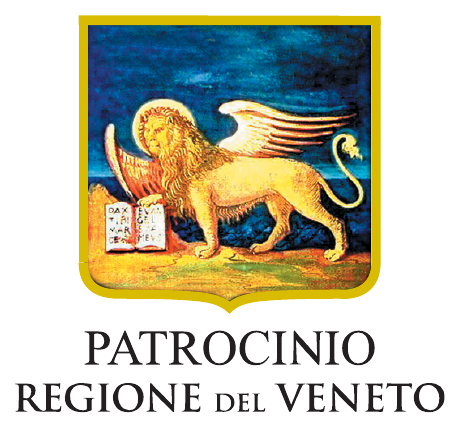
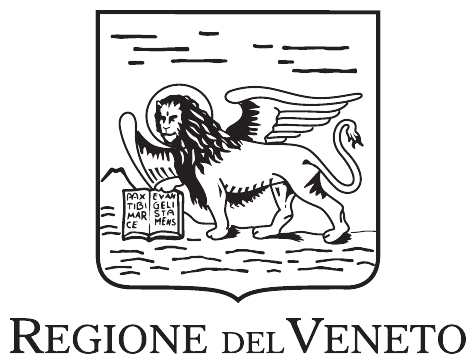
replace Regione Veneto crest with the official black monochrome mark
Regione del Veneto flagged (concessione patrocinio 45539/2026) that the
crest was shown with altered coloring — the grayscale-then-color-on-hover
treatment isn't appropriate for an official mark that must be used
exactly as supplied. Swapped in their official marchio_comp_nero file
and excluded it from the hover/color filter via a fixedMono flag, while
the other logos keep the grayscale-on-hover treatment.

diff --git a/src/components/Patrocini.vue b/src/components/Patrocini.vue
@@ -5,6 +5,9 @@ const patrociniIstituzionali = [
     nome: 'Regione del Veneto',
     logo: '/patrocini/regione-veneto.png',
     link: 'https://www.regione.veneto.it',
+    // Official monochrome mark (protocollo di concessione patrocinio 45539/2026) —
+    // must be used exactly as supplied, not recolored on hover like the others.
+    fixedMono: true,
   },
   {
     nome: 'Comune di Valdobbiadene',
@@ -40,7 +43,8 @@ const partnership = []
           <a v-for="p in patrociniIstituzionali" :key="p.nome"
             :href="p.link" target="_blank" rel="noopener"
             class="group flex flex-col items-center gap-3 text-center w-32">
-            <img :src="p.logo" :alt="p.nome" class="patrocinio-logo h-16 md:h-20 w-auto object-contain" />
+            <img :src="p.logo" :alt="p.nome"
+              :class="['h-16 md:h-20 w-auto object-contain', p.fixedMono ? '' : 'patrocinio-logo']" />
             <span class="text-xs tx3 group-hover:text-accent transition-colors leading-tight">{{ p.nome }}</span>
           </a>
         </div>
@@ -56,7 +60,8 @@ const partnership = []
           <a v-for="p in partnership" :key="p.nome"
             :href="p.link" target="_blank" rel="noopener"
             class="group flex flex-col items-center gap-3 text-center w-32">
-            <img :src="p.logo" :alt="p.nome" class="patrocinio-logo h-16 md:h-20 w-auto object-contain" />
+            <img :src="p.logo" :alt="p.nome"
+              :class="['h-16 md:h-20 w-auto object-contain', p.fixedMono ? '' : 'patrocinio-logo']" />
             <span class="text-xs tx3 group-hover:text-accent transition-colors leading-tight">{{ p.nome }}</span>
           </a>
         </div>
